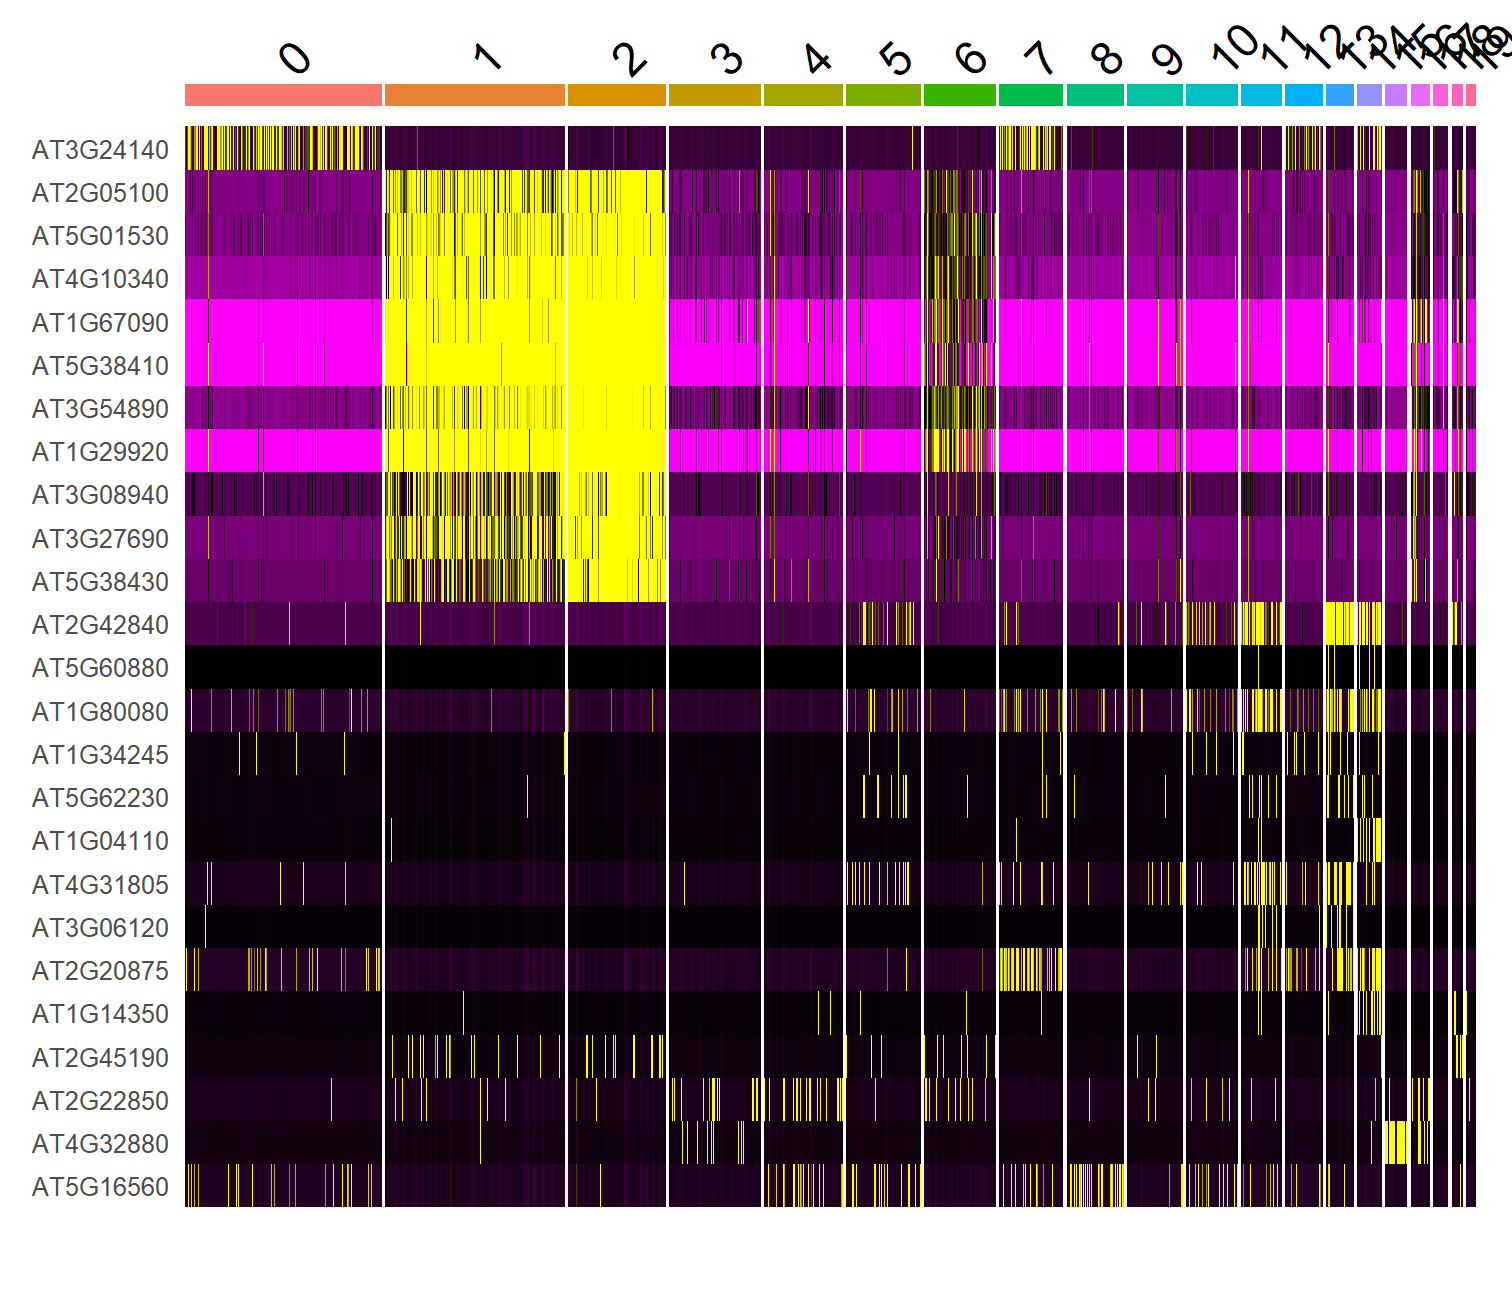
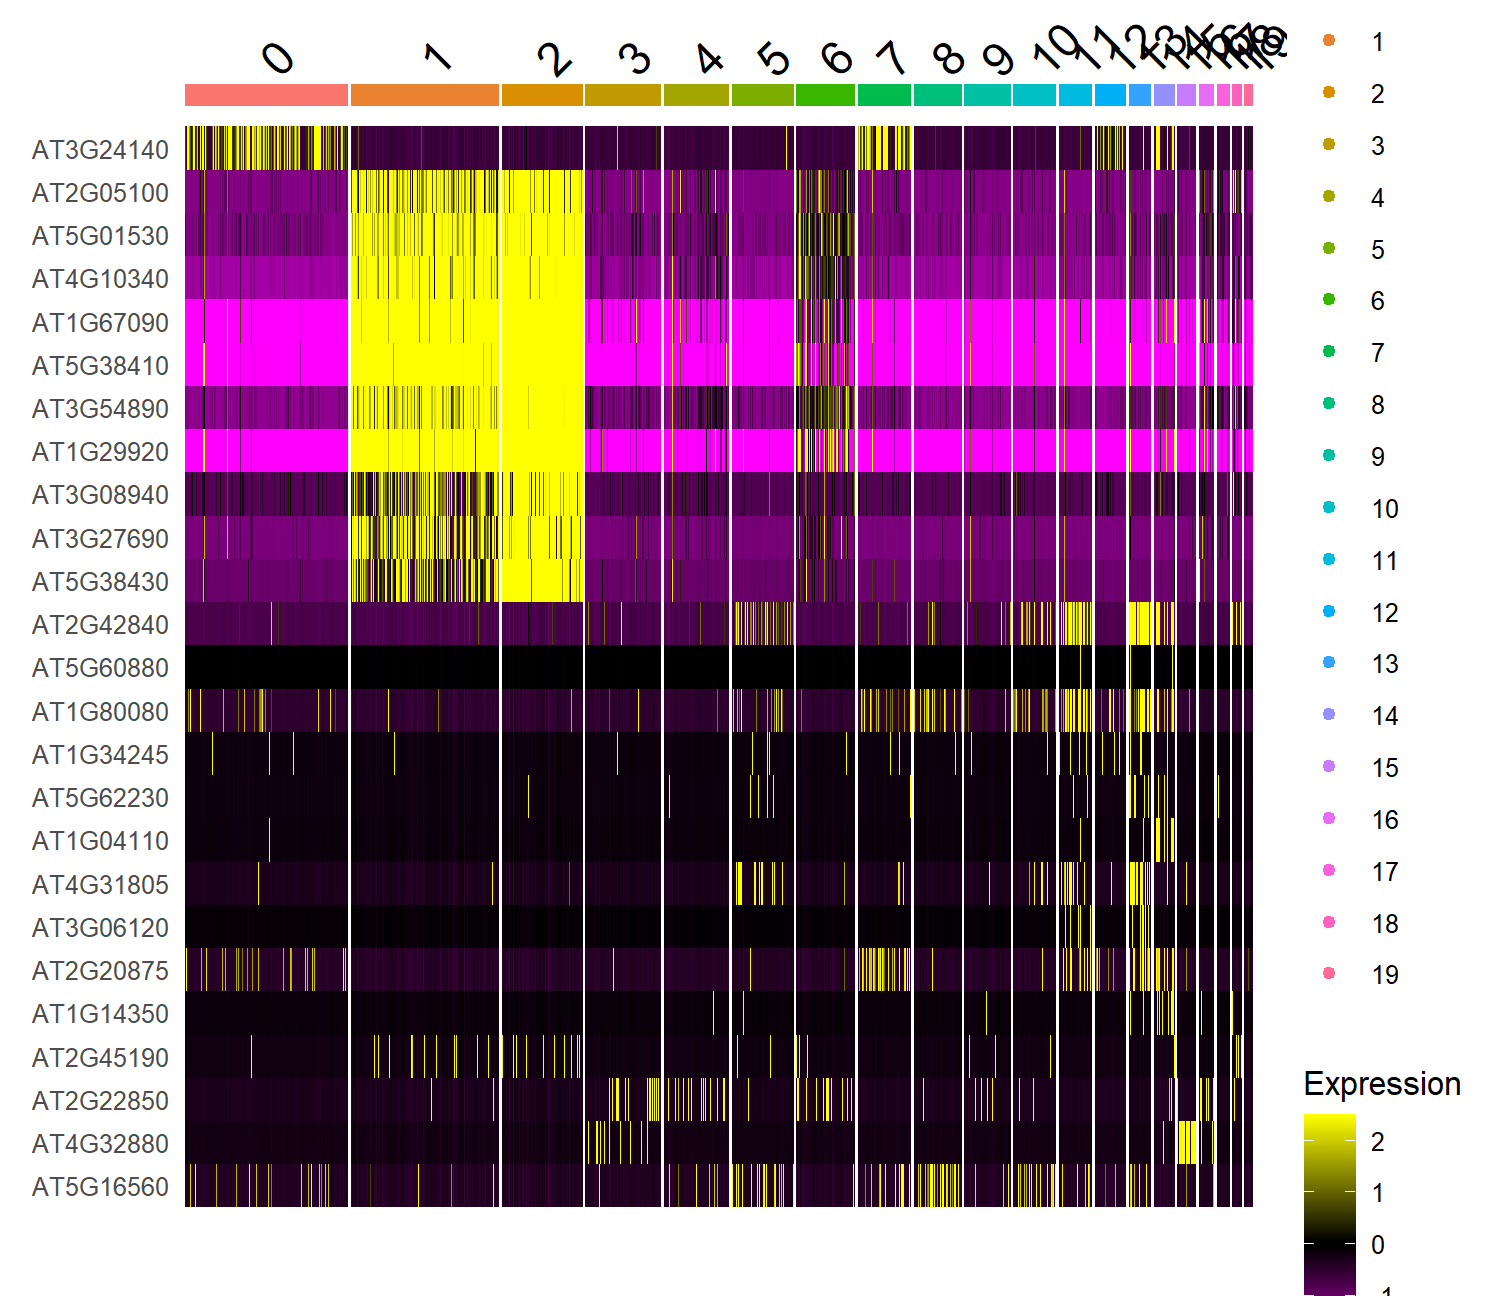
CP2 is final

diff --git a/ComputerPractice2_from_counts_to_clusters.html b/ComputerPractice2_from_counts_to_clusters.html
@@ -1364,7 +1364,7 @@ FeaturePlot(leaf.dataset,features = c('AT1G12480', 'AT1G11850', 'AT2G05100', 'AT
 ```r
 marker_genes&lt;- c('AT3G24140', 'AT2G05100', 'AT5G01530', 'AT4G10340', 'AT1G67090', 'AT5G38410', 'AT3G54890', 'AT1G29920', 'AT3G08940', 'AT3G27690', 'AT5G38430', 'AT1G76570', 'AT4G21750', 'AT2G26330', 'AT3G45640', 'AT2G42840', 'AT5G53210', 'AT5G60880', 'AT2G26330', 'AT1G80080', 'AT1G34245', 'AT3G26744', 'AT1G12860', 'AT2G42840', 'AT5G53210', 'AT5G60880', 'AT2G26330', 'AT5G62230', 'AT5G07180', 'AT1G80080', 'AT1G34245', 'AT1G04110', 'AT4G31805', 'AT3G26744', 'AT1G12860', 'AT3G45640', 'AT3G06120', 'AT5G53210', 'AT2G26330', 'AT5G62230', 'AT5G07180', 'AT1G80080', 'AT1G34245', 'AT2G20875', 'AT1G04110', 'AT4G31805', 'AT3G26744', 'AT1G12860', 'AT3G45640', 'AT3G06120', 'AT2G26330', 'AT5G62230', 'AT5G07180', 'AT2G20875', 'AT1G04110', 'AT4G31805', 'AT3G26744', 'AT1G12860', 'AT1G14350', 'AT3G45640', 'AT3G24140', 'AT3G06120', 'AT2G26330', 'AT5G62230', 'AT5G07180', 'AT2G20875', 'AT1G04110', 'AT3G26744', 'AT1G12860', 'AT1G14350', 'AT3G45640', 'AT3G24140', 'AT2G26330', 'AT5G62230', 'AT5G07180', 'AT1G04110', 'AT1G14350', 'AT5G46240', 'AT3G45640', 'AT3G17300', 'AT5G46240', 'AT2G26330', 'AT3G45640', 'AT4G12970', 'AT2G17950', 'AT2G27250', 'AT2G45190', 'AT2G27250', 'AT4G17710', 'AT1G55580', 'AT2G22850', 'AT3G28730', 'AT4G32880', 'AT5G16560')
 
-DoHeatmap(leaf.dataset, features = marker_genes) + NoLegend()
+DoHeatmap(leaf.dataset, features = marker_genes)
 ```
 
 &lt;img src="ComputerPractice2_from_counts_to_clusters_files/figure-html/doHeatmap-1.png" width="504" /&gt;
@@ -1372,7 +1372,7 @@ DoHeatmap(leaf.dataset, features = marker_genes) + NoLegend()
 #Step 6. Adjusting heatmap
 
 ```r
-DoHeatmap(leaf.dataset, features = marker_genes) +
+DoHeatmap(leaf.dataset, features = marker_genes) + NoLegend()+
     scale_y_discrete(labels = c("AT3G24140" = "FAMA")) +
     scale_fill_continuous(type = "viridis")
 ```
